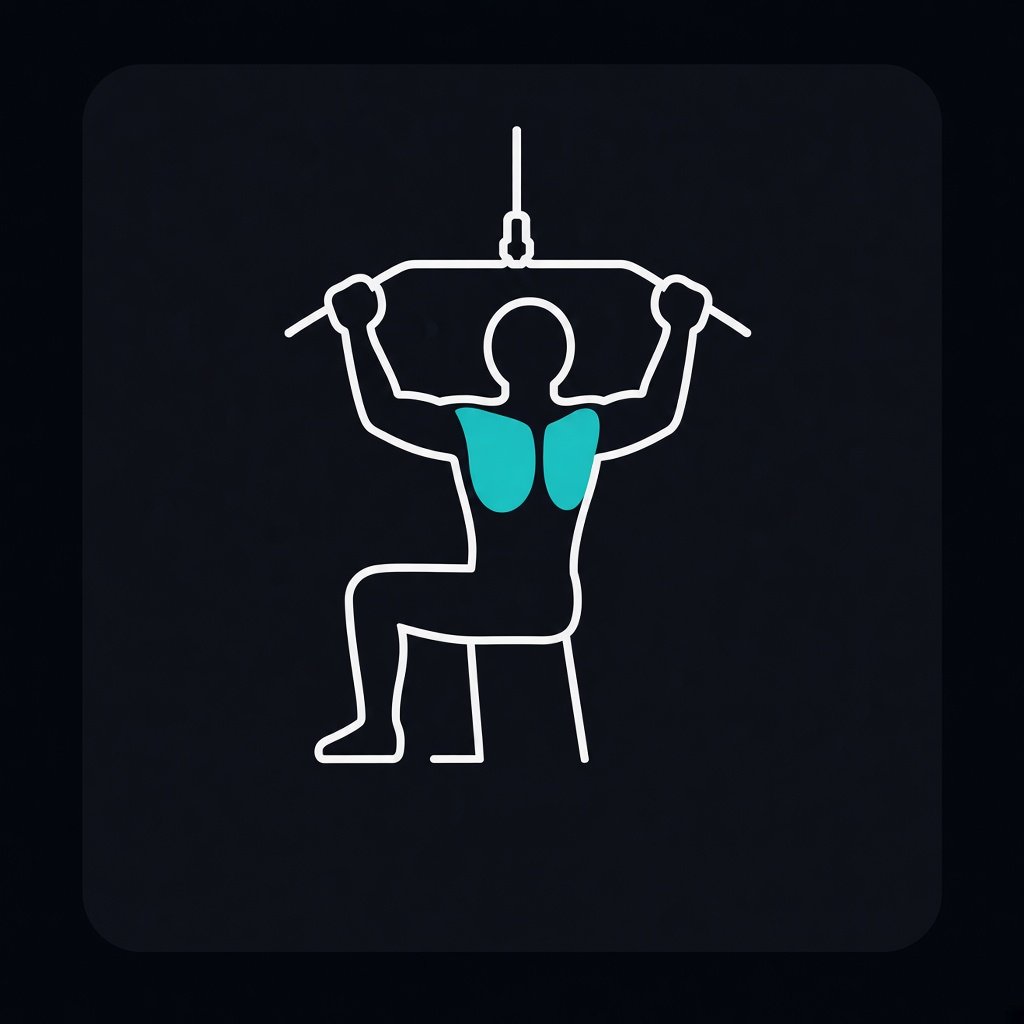
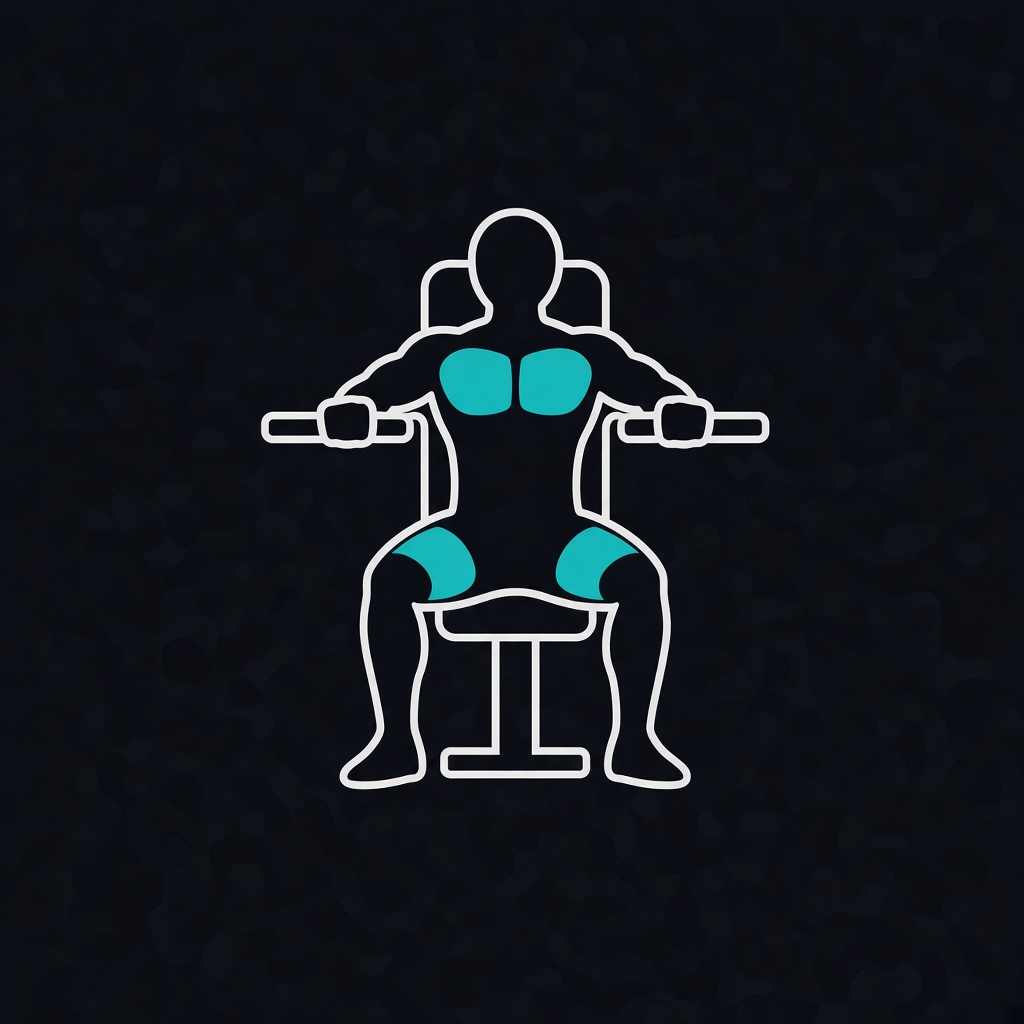
Créer les défis dès la première ouverture, et corriger les icônes dont la prise ou le banc étaient faux.

Changed region(s): [[0.25, 0.125, 0.75, 0.7812]]

diff --git a/Rhythmo.Mobile/Services/SupabaseRhythmoRepository.Progress.cs b/Rhythmo.Mobile/Services/SupabaseRhythmoRepository.Progress.cs
@@ -65,8 +65,11 @@ public sealed partial class SupabaseRhythmoRepository
 	public async Task<IReadOnlyList<WeeklyChallengeAssignmentRow>> ListChallengeAssignmentsAsync(
 		Guid profileId, int isoYear, int isoWeek, CancellationToken ct = default)
 	{
+		// Trois Where combinés deviennent un and() imbriqué, que PostgREST refuse (400).
 		var res = await Client.From<WeeklyChallengeAssignmentRecord>()
-			.Where(a => a.ProfileId == profileId && a.IsoYear == isoYear && a.IsoWeek == isoWeek)
+			.Filter("profile_id", Supabase.Postgrest.Constants.Operator.Equals, profileId.ToString())
+			.Filter("iso_year", Supabase.Postgrest.Constants.Operator.Equals, isoYear.ToString())
+			.Filter("iso_week", Supabase.Postgrest.Constants.Operator.Equals, isoWeek.ToString())
 			.Get(ct)
 			.ConfigureAwait(false);
 		return res.Models?.Select(ToAssignment).ToList() ?? [];
